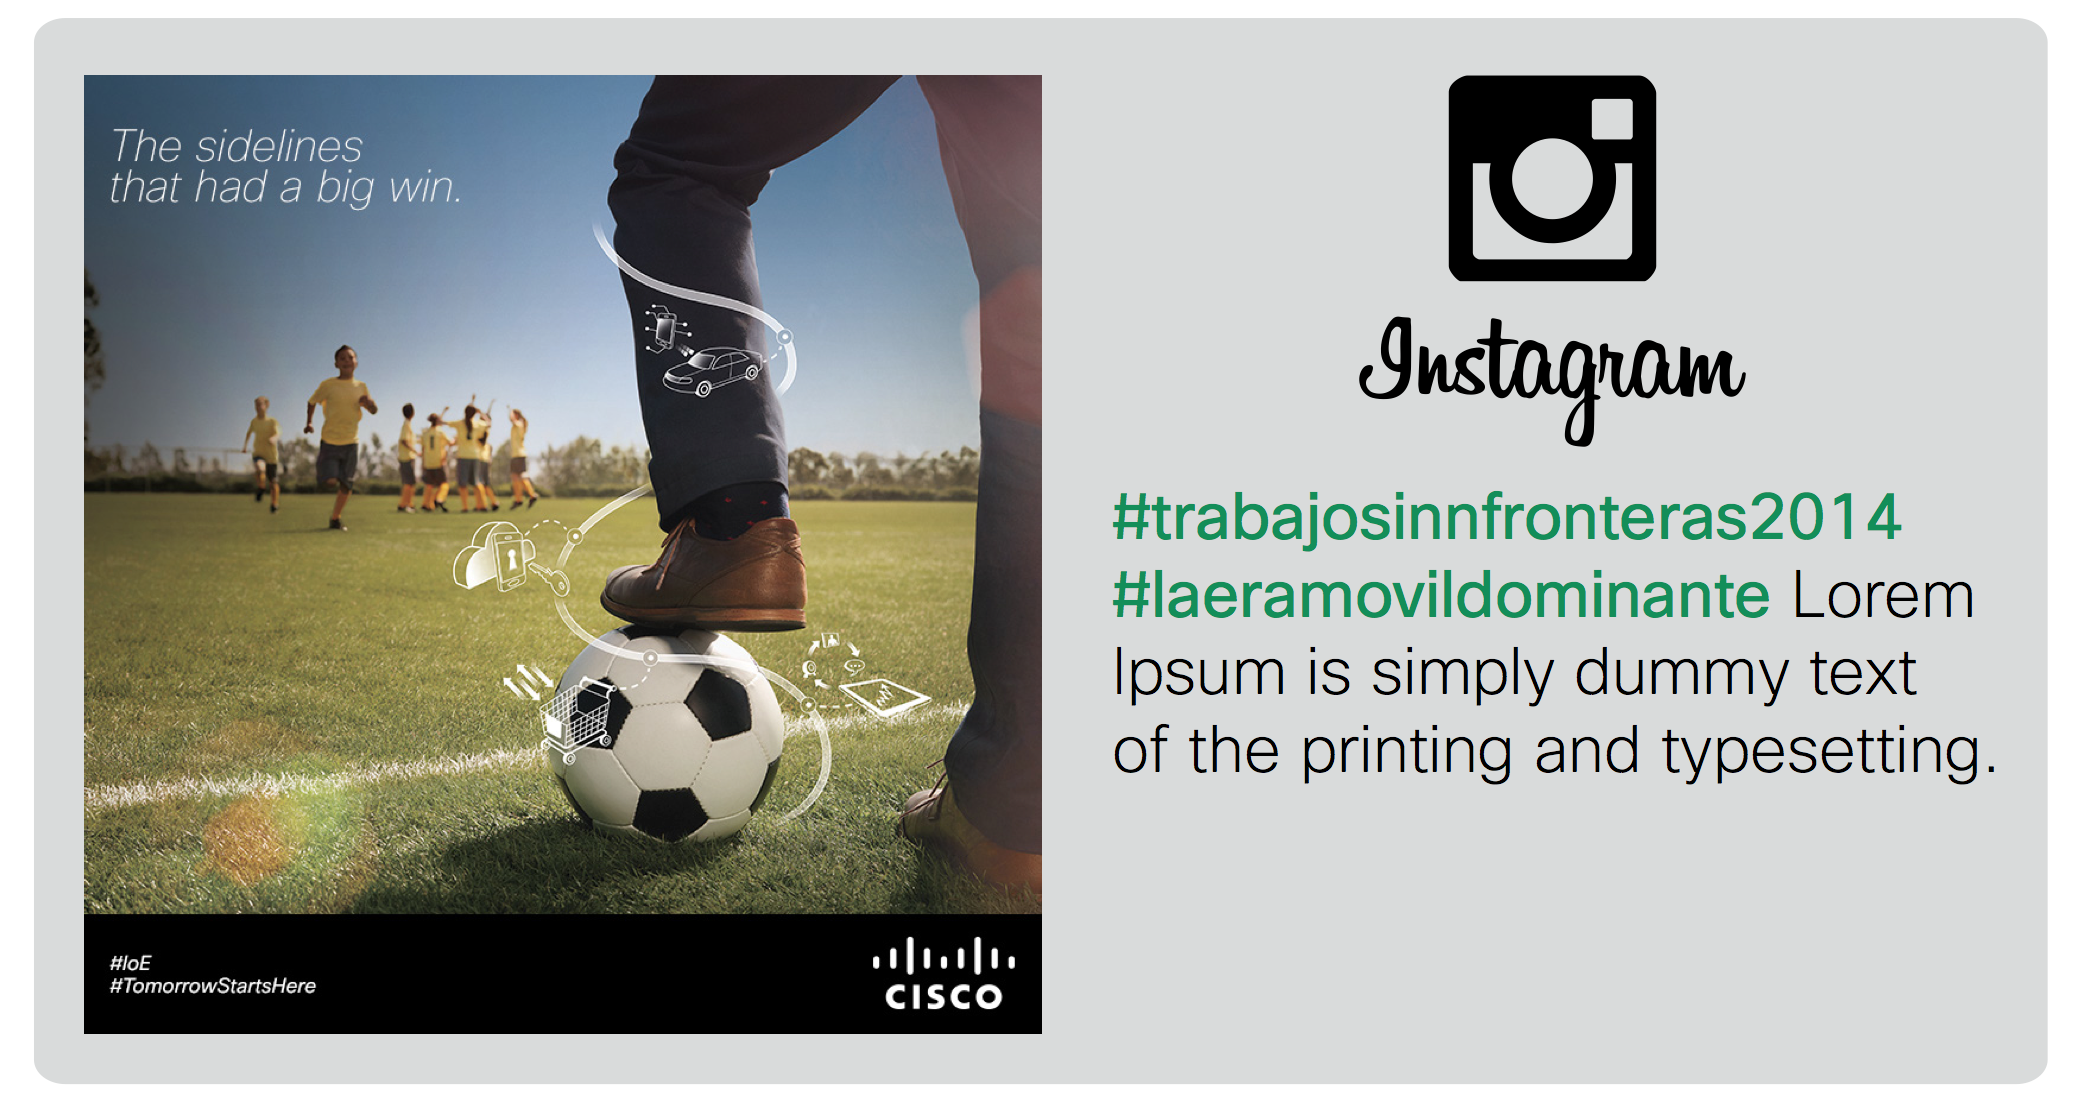
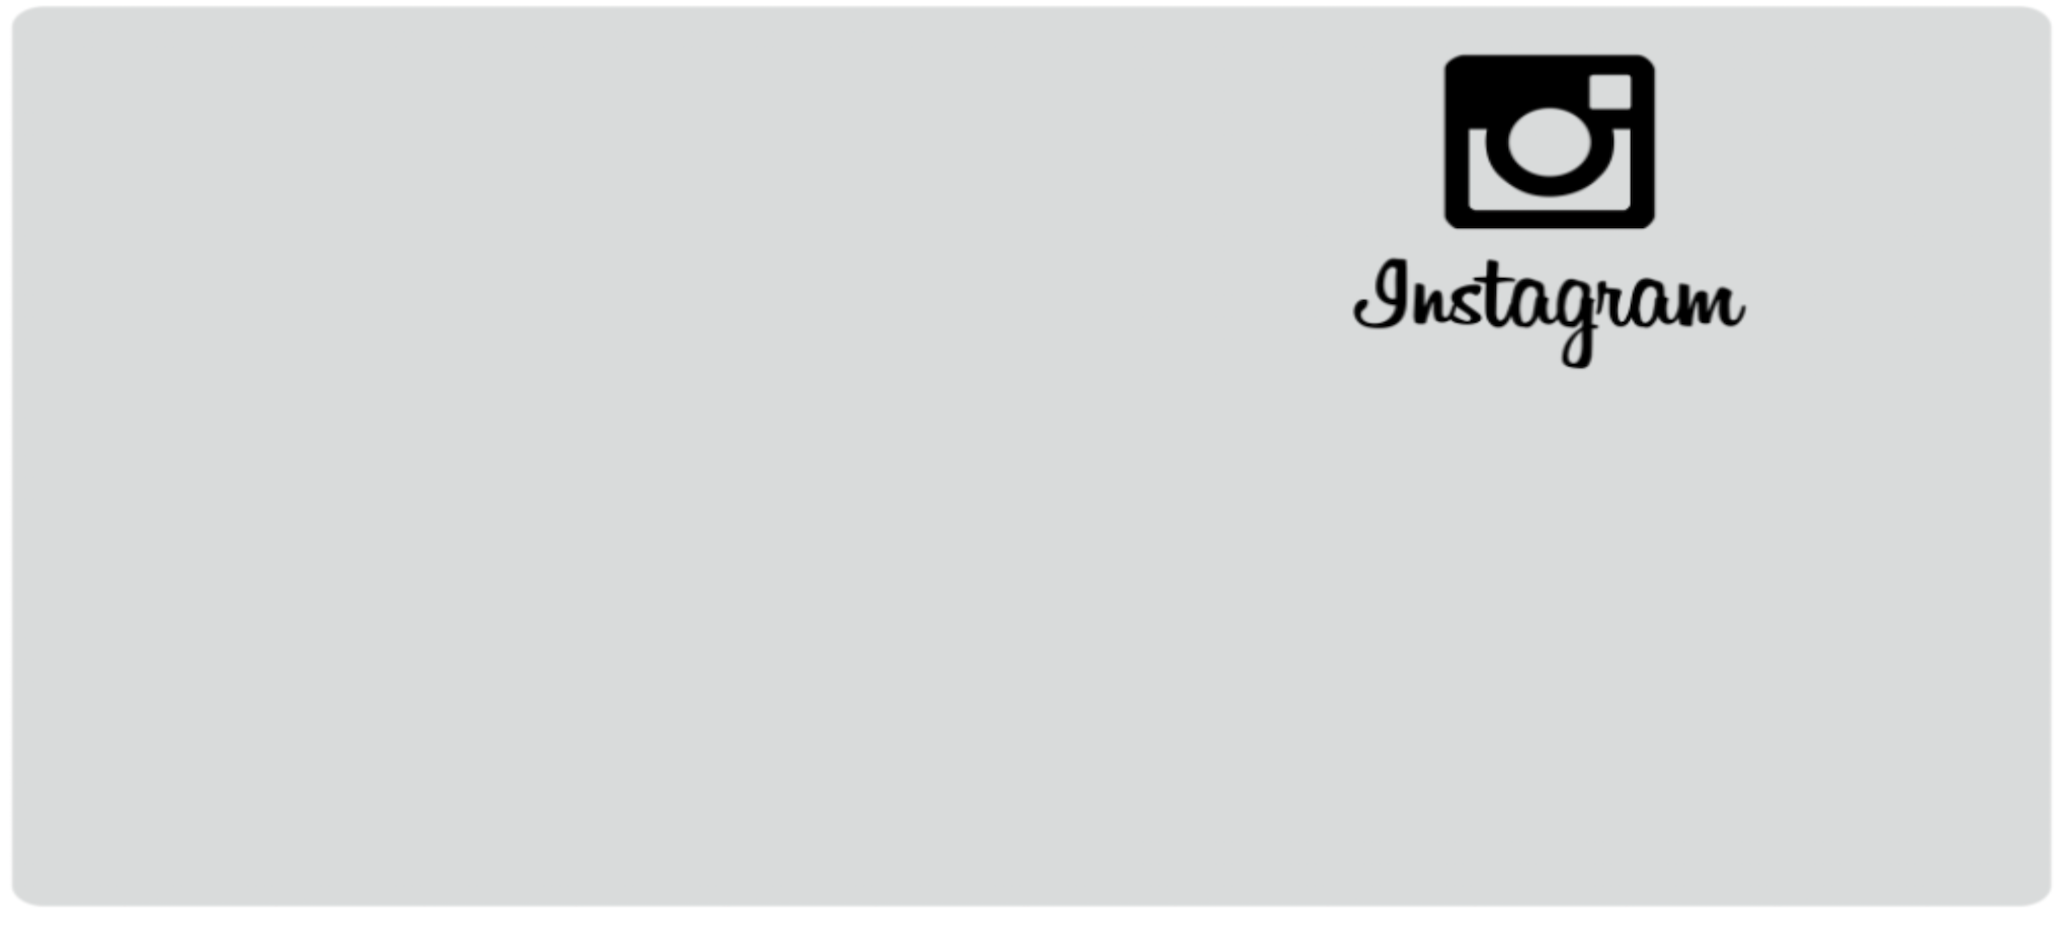
Primera version

diff --git a/EngageClient/EngageClientApp.mm b/EngageClient/EngageClientApp.mm
@@ -63,10 +63,10 @@ void EngageClientApp::twitter(Scene* scene, float width, float height, NSDiction
     twitterBackground->Translate(0, 120);
     scene->addChild(twitterBackground);
     
-    user = new SceneImage("../Resources/smaller-box.png");
-    user->Scale(0.4, 0.4);
-    user->Translate(width / 4, -90);
-    scene->addChild(user);
+    smallerBox = new SceneImage("../Resources/smaller-box.png");
+    smallerBox->Scale(0.4, 0.4);
+    smallerBox->Translate(width / 4, -90);
+    scene->addChild(smallerBox);
     
     NSString *pictureUrl = [data objectForKey:@"picture_url"];
     
@@ -93,7 +93,7 @@ void EngageClientApp::twitter(Scene* scene, float width, float height, NSDiction
     
     NSString *slugString = [data objectForKey:@"slug"];
     const char *slug = [[@"@" stringByAppendingString:slugString] UTF8String];
-    SceneLabel *slugLabel = new SceneLabel(slug, 32);
+    SceneLabel *slugLabel = new SceneLabel(slug, 20);
     slugLabel->setColor(0, 0, 0, 1);
     slugLabel->Translate(width / 4 + 40, -90);
     scene->addChild(slugLabel);
@@ -119,7 +119,7 @@ void EngageClientApp::drawStrings(Scene* scene, NSString *data, float x, float y
     textReferences.clear();
     
     
-    
+    data = [data stringByReplacingOccurrencesOfString:@"\n" withString:@" "];
     NSArray *array = [data componentsSeparatedByString:@" "];
     NSArray *statuses = [[NSArray alloc] init];
     NSString *current = @"";
@@ -158,10 +158,15 @@ void EngageClientApp::drawStrings(Scene* scene, NSString *data, float x, float y
 }
 
 void EngageClientApp::clean(Scene* scene) {
-    
     for (unsigned i=0; i<textReferences.size(); i++) {
         SceneLabel *status = textReferences.at(i);
         scene->removeEntity(status);
+    }
+    if(biggerBox) {
+        scene->removeEntity(biggerBox);
+    }
+    if(smallerBox) {
+        scene->removeEntity(smallerBox);
     }
     if(vectorsImage) {
         scene->removeEntity(vectorsImage);
@@ -178,7 +183,56 @@ void EngageClientApp::clean(Scene* scene) {
 }
 
 
-void EngageClientApp::instagram(Scene* scene, float width, float height) {
+void EngageClientApp::instagram(Scene* scene, float width, float height, NSDictionary* data) {
+    biggerBox = new SceneImage("../Resources/bigger-box.png");
+    biggerBox->Scale(0.45, 0.45);
+    biggerBox->Translate(0, 50);
+    scene->addChild(biggerBox);
+    
+    NSString *pictureUrl = [data objectForKey:@"standard_resolution"];
+    
+    
+    NSString *picture = [pictureUrl lastPathComponent];
+    picture = [picture stringByReplacingOccurrencesOfString:@".jpeg" withString:@".png"];
+    picture = [picture stringByReplacingOccurrencesOfString:@".jpg" withString:@".png"];
+    picture = [[@"~/.engage/resources" stringByExpandingTildeInPath]
+                   stringByAppendingFormat:@"/%@", picture];
+    twitterPicture = new SceneImage([picture UTF8String]);
+    twitterPicture->Scale(0.28, 0.28);
+    twitterPicture->Translate(-240, 60);
+    scene->addChild(twitterPicture);
+    
+    NSString *tags = @"";
+    
+    for(id tagEntity in [data objectForKey:@"instagram_tags"]) {
+        tags = [tags stringByAppendingFormat:@"%@ ", [tagEntity objectForKey:@"tag"]];
+    }
+    
+    drawStrings(scene, tags, 240, 40, 20, 50);
+    
+    smallerBox = new SceneImage("../Resources/smaller-box.png");
+    smallerBox->Scale(0.4, 0.4);
+    smallerBox->Translate(width / 4, -220);
+    scene->addChild(smallerBox);
+    
+    NSString *slugString = [data objectForKey:@"name"];
+    const char *slug = [[@"@" stringByAppendingString:slugString] UTF8String];
+    SceneLabel *slugLabel = new SceneLabel(slug, 20);
+    slugLabel->setColor(0, 0, 0, 1);
+    slugLabel->Translate(width / 4 + 30, -220);
+    scene->addChild(slugLabel);
+    
+    slugString = [data objectForKey:@"profile_url"];
+    slugString = [slugString lastPathComponent];
+    slugString = [slugString stringByReplacingOccurrencesOfString:@".jpg" withString:@".png"];
+    slugString = [slugString stringByReplacingOccurrencesOfString:@".jpeg" withString:@".png"];
+    slugString = [[@"~/.engage/resources" stringByExpandingTildeInPath]
+                  stringByAppendingFormat:@"/%@", slugString];
+    
+    user = new SceneImage([slugString UTF8String]);
+    user->Scale(0.25, 0.25);
+    user->Translate(width / 4 - 140, -220);
+    scene->addChild(user);
     
 }
 
@@ -245,6 +299,8 @@ void EngageClientApp::updateScene(int action, NSDictionary *data) {
         
         if(action == TWITTER) {
             twitter(scene, width, height, data);
+        } else if (action == INSTAGRAM) {
+            instagram(scene, width, height, data);
         }
         
     }

diff --git a/EngageClient/EngageClientApp.h b/EngageClient/EngageClientApp.h
@@ -18,6 +18,8 @@
 using namespace Polycode;
 
 #define TWITTER 0
+#define INSTAGRAM 1
+
 
 class EngageClientApp : public EventHandler {
 public:
@@ -26,7 +28,7 @@ public:
     
     void clean(Scene* scene);
     void twitter(Scene *scene, float width, float height, NSDictionary *data);
-    void instagram(Scene *scene, float width, float height);
+    void instagram(Scene *scene, float width, float height, NSDictionary *data);
     void topbar(Scene* scene, float width, float height);
     void footer(Scene* scene, float width, float height);
         
@@ -37,8 +39,10 @@ public:
     
 private:
     SceneImage *user;
+    SceneImage *biggerBox;
     
     //Twitter
+    SceneImage *smallerBox;
     SceneImage *vectorsImage;
     SceneImage *twitterPicture;
     SceneImage *twitterBackground;

diff --git a/EngageClient/EngageAppDelegate.mm b/EngageClient/EngageAppDelegate.mm
@@ -131,7 +131,11 @@
 
 - (void)animationTimer:(NSTimer *)timer
 {
-    if(tweets) {
+    NSUInteger randomNetwork = arc4random() % 2;
+    if(instagrams && randomNetwork == 1) {
+        NSUInteger randomIndex = arc4random() % [instagrams count];
+        app->updateScene(INSTAGRAM, [instagrams objectAtIndex:randomIndex]);
+    } else if(tweets && randomNetwork == 0) {
         NSUInteger randomIndex = arc4random() % [tweets count];
         app->updateScene(TWITTER, [tweets objectAtIndex:randomIndex]);
     }
